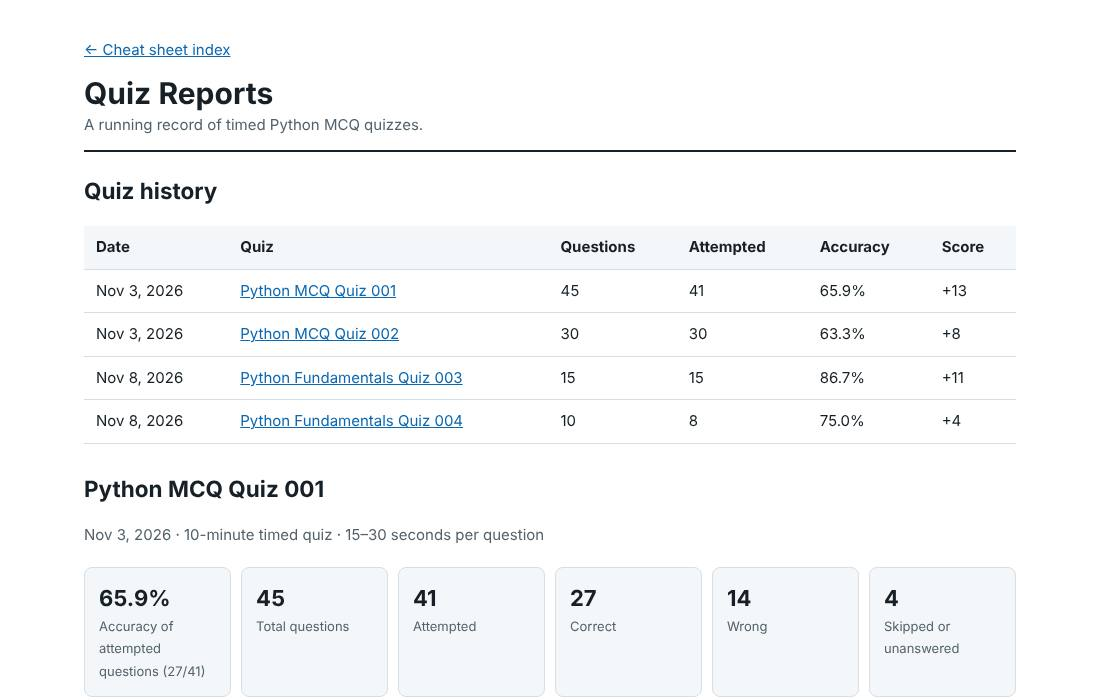
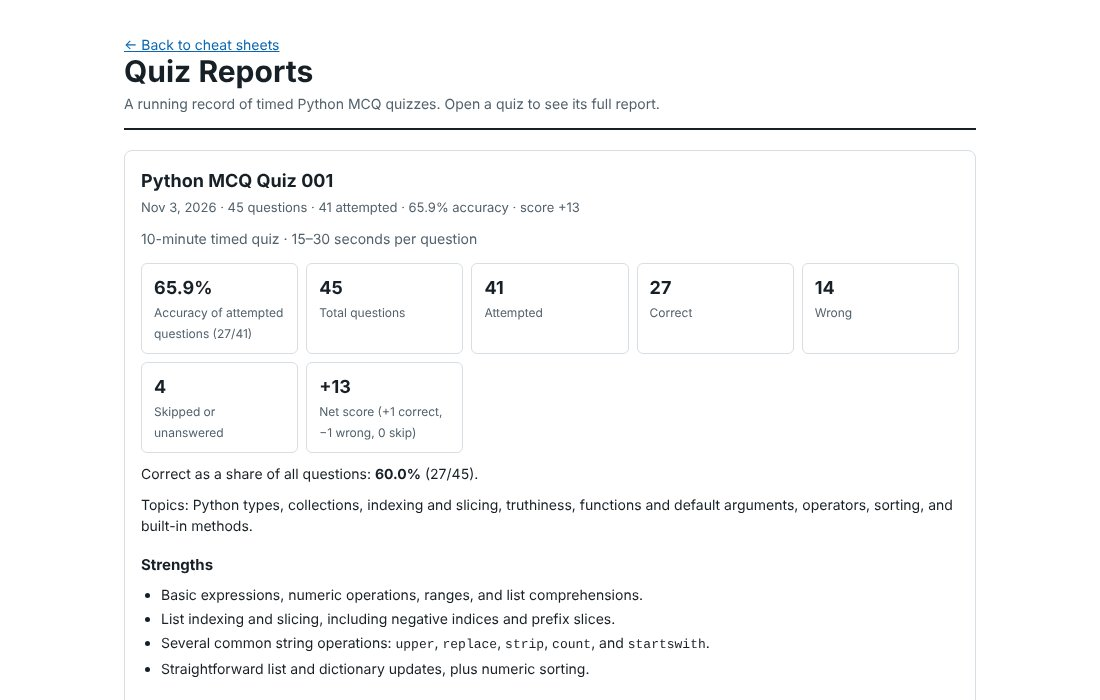
Nest each quiz report inside its quiz entry (#10)
Replace the quiz history table and the separate report articles with one
collapsible card per quiz. The card's summary shows the quiz name and its
history line; the full report sits inside. #quiz-NNN links open the card.

Claude-Session: https://claude.ai/code/session_01L7knbArDAyeYgqksp6899f

diff --git a/quizzes/quiz-reports.html b/quizzes/quiz-reports.html
@@ -1,11 +1,50 @@
 <!doctype html>
-<html lang="en"><head><meta charset="utf-8"><meta name="viewport" content="width=device-width, initial-scale=1"><title>Quiz Reports</title>
-<style>
-:root{--ink:#172026;--muted:#52616b;--line:#d7dee4;--blue:#0b67b2;--soft:#f4f7f9}*{box-sizing:border-box}body{margin:0;color:var(--ink);font:15px/1.5 Inter,ui-sans-serif,system-ui,-apple-system,BlinkMacSystemFont,"Segoe UI",sans-serif}main{max-width:980px;margin:0 auto;padding:24px}header{border-bottom:2px solid var(--ink);padding-bottom:14px;margin-bottom:22px}h1{margin:0 0 4px;font-size:30px;line-height:1.1}.muted{color:var(--muted)}a{color:var(--blue)}.summary{display:grid;grid-template-columns:repeat(auto-fit,minmax(135px,1fr));gap:10px;margin:20px 0}.metric{border:1px solid var(--line);border-radius:8px;padding:14px;background:var(--soft)}.metric strong{display:block;font-size:22px}.metric span{color:var(--muted);font-size:13px}table{width:100%;border-collapse:collapse;margin:18px 0 28px}th,td{padding:10px 12px;border-bottom:1px solid var(--line);text-align:left}th{background:var(--soft)}details{border:1px solid var(--line);border-radius:8px;padding:12px 14px;margin:12px 0}summary{cursor:pointer;font-weight:700}li{margin:6px 0}@media(max-width:600px){main{padding:16px}table{font-size:13px}th,td{padding:8px 6px}}
-</style></head><body><main>
-<header><p><a href="../index.html">← Cheat sheet index</a></p><h1>Quiz Reports</h1><div class="muted">A running record of timed Python MCQ quizzes.</div></header>
-<section aria-labelledby="history-heading"><h2 id="history-heading">Quiz history</h2><table><thead><tr><th>Date</th><th>Quiz</th><th>Questions</th><th>Attempted</th><th>Accuracy</th><th>Score</th></tr></thead><tbody><tr><td>Nov 3, 2026</td><td><a href="#quiz-001">Python MCQ Quiz 001</a></td><td>45</td><td>41</td><td>65.9%</td><td>+13</td></tr><tr><td>Nov 3, 2026</td><td><a href="#quiz-002">Python MCQ Quiz 002</a></td><td>30</td><td>30</td><td>63.3%</td><td>+8</td></tr><tr><td>Nov 8, 2026</td><td><a href="#quiz-003">Python Fundamentals Quiz 003</a></td><td>15</td><td>15</td><td>86.7%</td><td>+11</td></tr><tr><td>Nov 8, 2026</td><td><a href="#quiz-004">Python Fundamentals Quiz 004</a></td><td>10</td><td>8</td><td>75.0%</td><td>+4</td></tr></tbody></table></section>
-<article id="quiz-001" aria-labelledby="quiz-001-heading"><h2 id="quiz-001-heading">Python MCQ Quiz 001</h2><p class="muted">Nov 3, 2026 · 10-minute timed quiz · 15–30 seconds per question</p><div class="summary">
+<html lang="en">
+<head>
+  <meta charset="utf-8">
+  <meta name="viewport" content="width=device-width, initial-scale=1">
+  <title>Quiz Reports</title>
+  <style>
+    :root { --ink: #172026; --muted: #52616b; --line: #d7dee4; --soft: #f5f7f9; --blue: #0b67b2; }
+    * { box-sizing: border-box; }
+    body { margin: 0; color: var(--ink); background: #fff; font: 14px/1.5 Inter, ui-sans-serif, system-ui, -apple-system, BlinkMacSystemFont, "Segoe UI", sans-serif; }
+    main { max-width: 900px; margin: 0 auto; padding: 24px; }
+    header { margin-bottom: 20px; padding-bottom: 14px; border-bottom: 2px solid var(--ink); }
+    h1 { margin: 0 0 5px; font-size: 30px; line-height: 1.1; }
+    .subtitle, .muted, .meta { color: var(--muted); }
+    a { color: var(--blue); }
+    main > section { margin: 16px 0; padding: 16px; border: 1px solid var(--line); border-radius: 8px; scroll-margin-top: 12px; }
+    h2 { margin: 0 0 4px; font-size: 18px; }
+    h3 { margin: 18px 0 4px; font-size: 15px; }
+    p { margin: 10px 0 0; }
+    pre { overflow-x: auto; margin: 10px 0 0; padding: 14px; border-radius: 6px; background: var(--soft); font: 12.5px/1.55 "SFMono-Regular", Consolas, "Liberation Mono", Menlo, monospace; }
+    code { font: 13px/1.55 "SFMono-Regular", Consolas, "Liberation Mono", Menlo, monospace; }
+    ul, ol { margin: 8px 0 0; padding-left: 20px; }
+    li { margin: 3px 0; }
+    ol > li { margin: 12px 0; }
+    @media (max-width: 600px) { main { padding: 16px; } }
+    details.card > summary { cursor: pointer; list-style: none; }
+    details.card > summary::-webkit-details-marker { display: none; }
+    .meta { font-size: 13px; }
+    .summary { display: grid; grid-template-columns: repeat(auto-fit, minmax(130px, 1fr)); gap: 8px; margin: 14px 0 0; }
+    .metric { padding: 10px 12px; border: 1px solid var(--line); border-radius: 6px; }
+    .metric strong { display: block; font-size: 18px; }
+    .metric span { color: var(--muted); font-size: 12px; }
+    details.card details { margin-top: 8px; padding: 10px 12px; border: 1px solid var(--line); border-radius: 6px; }
+    details.card details > summary { cursor: pointer; font-weight: 600; }
+  </style>
+</head>
+<body>
+<main>
+<header>
+  <p><a href="../index.html">← Back to cheat sheets</a></p>
+  <h1>Quiz Reports</h1>
+  <div class="subtitle">A running record of timed Python MCQ quizzes. Open a quiz to see its full report.</div>
+</header>
+
+<section id="quiz-001">
+<details class="card"><summary><h2 id="quiz-001-heading">Python MCQ Quiz 001</h2><div class="meta">Nov 3, 2026 · 45 questions · 41 attempted · 65.9% accuracy · score +13</div></summary>
+<p class="muted">10-minute timed quiz · 15–30 seconds per question</p><div class="summary">
 <div class="metric"><strong>65.9%</strong><span>Accuracy of attempted questions (27/41)</span></div><div class="metric"><strong>45</strong><span>Total questions</span></div><div class="metric"><strong>41</strong><span>Attempted</span></div><div class="metric"><strong>27</strong><span>Correct</span></div><div class="metric"><strong>14</strong><span>Wrong</span></div><div class="metric"><strong>4</strong><span>Skipped or unanswered</span></div><div class="metric"><strong>+13</strong><span>Net score (+1 correct, −1 wrong, 0 skip)</span></div></div>
 <p>Correct as a share of all questions: <strong>60.0%</strong> (27/45).</p><p>Topics: Python types, collections, indexing and slicing, truthiness, functions and default arguments, operators, sorting, and built-in methods.</p>
 <section aria-labelledby="strengths"><h3 id="strengths">Strengths</h3><ul><li>Basic expressions, numeric operations, ranges, and list comprehensions.</li><li>List indexing and slicing, including negative indices and prefix slices.</li><li>Several common string operations: <code>upper</code>, <code>replace</code>, <code>strip</code>, <code>count</code>, and <code>startswith</code>.</li><li>Straightforward list and dictionary updates, plus numeric sorting.</li></ul></section>
@@ -41,8 +80,13 @@ print(f(0))</pre><p><strong>Options:</strong> A) <code>0</code>; B) <code>10</co
 <li><strong>Q34 — Exponentiation associativity:</strong><p><strong>Exact question:</strong> What does this print?</p><pre>print(2 ** 3 ** 2)</pre><p><strong>Options:</strong> A) <code>64</code>; B) <code>512</code>; C) <code>256</code>; D) <code>36</code>.</p><p><strong>Correct result:</strong> B) <code>512</code>. Exponentiation groups from the right: <code>2 ** (3 ** 2)</code>.</p></li>
 <li><strong>Q43 — <code>capitalize()</code>:</strong><p><strong>Exact question:</strong> What does this print?</p><pre>print("cat".capitalize())</pre><p><strong>Options:</strong> A) <code>Cat</code>; B) <code>CAT</code>; C) <code>cat</code>; D) It raises an error.</p><p><strong>Correct result:</strong> A) <code>Cat</code>. <code>capitalize()</code> uppercases the first character and lowercases the remaining characters.</p></li>
 </ol></details></section>
-<p class="muted">The quiz start timestamp was not captured, so exact total elapsed time could not be independently verified. Per-question time limits were used.</p></article>
-<article id="quiz-002" aria-labelledby="quiz-002-heading"><h2 id="quiz-002-heading">Python MCQ Quiz 002</h2><p class="muted">Nov 3, 2026 · 10-minute timed quiz · 15–30 seconds per question · recorded duration 8:11</p><div class="summary">
+<p class="muted">The quiz start timestamp was not captured, so exact total elapsed time could not be independently verified. Per-question time limits were used.</p>
+</details>
+</section>
+
+<section id="quiz-002">
+<details class="card"><summary><h2 id="quiz-002-heading">Python MCQ Quiz 002</h2><div class="meta">Nov 3, 2026 · 30 questions · 30 attempted · 63.3% accuracy · score +8</div></summary>
+<p class="muted">10-minute timed quiz · 15–30 seconds per question · recorded duration 8:11</p><div class="summary">
 <div class="metric"><strong>63.3%</strong><span>Accuracy of attempted questions (19/30)</span></div><div class="metric"><strong>30</strong><span>Total questions</span></div><div class="metric"><strong>30</strong><span>Attempted</span></div><div class="metric"><strong>19</strong><span>Correct</span></div><div class="metric"><strong>11</strong><span>Wrong</span></div><div class="metric"><strong>0</strong><span>Skipped</span></div><div class="metric"><strong>+8</strong><span>Net score (+1 correct, −1 wrong, 0 skip)</span></div></div>
 <p>Correct as a share of all questions: <strong>63.3%</strong> (19/30).</p><p>Topics: Python types, lists and dictionaries, indexing and slicing, truthiness, functions and default arguments, operators, sorting, and built-in methods.</p>
 <section aria-labelledby="strengths-002"><h3 id="strengths-002">Strengths</h3><ul><li>Direct list aliasing, slicing with positive and negative bounds, and basic list operations.</li><li>Dictionary lookup with a default, updates, and understanding that values can repeat.</li><li>One-item tuple syntax and simple function defaults, including when a default expression is evaluated.</li><li>Several string operations, including <code>find</code> and <code>join</code>.</li><li>Equality versus identity for separate lists, and chained comparisons.</li></ul></section>
@@ -70,9 +114,12 @@ print(a)</pre><p><strong>Options:</strong> A) <code>[[1], [2]]</code>; B) <code>
 <li><strong>Q27 — Dictionary iteration order and values</strong><p><strong>Exact question:</strong></p><pre>d = {"b": 2, "a": 1}
 print(list(d))</pre><p><strong>Options:</strong> A) <code>['a', 'b']</code>; B) <code>['b', 'a']</code>; C) <code>[2, 1]</code>; D) <code>[('b', 2), ('a', 1)]</code>.</p><p><strong>Your answer:</strong> D. <strong>Correct result:</strong> B) <code>['b', 'a']</code>.</p><p><strong>Learned:</strong> Iterating a dictionary yields its keys in insertion order. Use <code>d.values()</code> for values or <code>d.items()</code> for key-value pairs.</p></li>
 </ol></details></section>
-</article>
+</details>
+</section>
 
-<article id="quiz-003" aria-labelledby="quiz-003-heading"><h2 id="quiz-003-heading">Python Fundamentals Quiz 003</h2><p class="muted">Nov 8, 2026 · Duration: unknown · Per-question time limit: unknown</p><div class="summary">
+<section id="quiz-003">
+<details class="card"><summary><h2 id="quiz-003-heading">Python Fundamentals Quiz 003</h2><div class="meta">Nov 8, 2026 · 15 questions · 15 attempted · 86.7% accuracy · score +11</div></summary>
+<p class="muted">Duration: unknown · Per-question time limit: unknown</p><div class="summary">
 <div class="metric"><strong>86.7%</strong><span>Accuracy of attempted questions (13/15)</span></div><div class="metric"><strong>15</strong><span>Total questions</span></div><div class="metric"><strong>15</strong><span>Attempted</span></div><div class="metric"><strong>13</strong><span>Correct</span></div><div class="metric"><strong>2</strong><span>Wrong</span></div><div class="metric"><strong>0</strong><span>Skipped or unanswered</span></div><div class="metric"><strong>+11</strong><span>Net score (+1 correct, −1 wrong, 0 skip)</span></div></div>
 <p>Correct as a share of all questions: <strong>86.7%</strong> (13/15).</p><p>Topics: mutability and aliasing, function defaults, tuples, dictionaries, slicing, string search, booleans, comprehensions, shallow copying, generators, exceptions, sorting, truthiness, and enumerate. Questions reviewed prior Python fundamentals learning and extended into data preparation and ML workflows.</p>
 <section aria-labelledby="strengths-003"><h3 id="strengths-003">Strengths</h3><ul><li>Correctly identified list in-place mutation with <code>+=</code> and the shared inner objects in a shallow copy.</li><li>Applied function default behavior, tuple syntax, dictionary lookup, slicing, and missing-substring behavior accurately.</li><li>Handled Python booleans as integers, generators, exception handling, sorting with a key, truthiness, and <code>enumerate</code> in practical snippets.</li></ul></section>
@@ -82,10 +129,12 @@ print(list(d))</pre><p><strong>Options:</strong> A) <code>['a', 'b']</code>; B) 
 print(len(d), d["lr"])</pre><p><strong>Answer choices:</strong></p><ul><li>A. <code>3 0.1</code></li><li>B. <code>3 0.01</code></li><li>C. <code>2 0.01</code></li><li>D. It raises a <code>KeyError</code></li></ul><p><strong>Your answer:</strong> D. <strong>Correct result:</strong> C, <code>2 0.01</code>.</p><p><strong>Learned:</strong> A dictionary has at most one entry for a given key. A later value for the same key replaces its earlier value; the key contributes only one item to <code>len(d)</code>.</p></li>
 <li><strong>Q9 — Comprehension filter order:</strong><p><strong>Exact question:</strong> What is the value of <code>squares</code>?</p><pre>squares = [x * x for x in range(5) if x % 2 == 0]</pre><p><strong>Answer choices:</strong></p><ul><li>A. <code>[0, 1, 4, 9, 16]</code></li><li>B. <code>[0, 4, 16]</code></li><li>C. <code>[0, 2, 4]</code></li><li>D. <code>[4, 16]</code></li></ul><p><strong>Your answer:</strong> A. <strong>Correct result:</strong> B, <code>[0, 4, 16]</code>.</p><p><strong>Learned:</strong> The <code>if</code> clause filters the iteration values before the expression is evaluated. Here only 0, 2, and 4 are retained, then squared.</p></li>
 </ol></details></section>
-</article>
+</details>
+</section>
 
-
-<article id="quiz-004" aria-labelledby="quiz-004-heading"><h2 id="quiz-004-heading">Python Fundamentals Quiz 004</h2><p class="muted">Nov 8, 2026 · Duration: unknown · Per-question time limits: easy 20 seconds, medium 35 seconds, hard 60 seconds</p><div class="summary">
+<section id="quiz-004">
+<details class="card"><summary><h2 id="quiz-004-heading">Python Fundamentals Quiz 004</h2><div class="meta">Nov 8, 2026 · 10 questions · 8 attempted · 75.0% accuracy · score +4</div></summary>
+<p class="muted">Duration: unknown · Per-question time limits: easy 20 seconds, medium 35 seconds, hard 60 seconds</p><div class="summary">
 <div class="metric"><strong>75.0%</strong><span>Accuracy of attempted questions (6/8)</span></div><div class="metric"><strong>10</strong><span>Total questions</span></div><div class="metric"><strong>8</strong><span>Attempted</span></div><div class="metric"><strong>6</strong><span>Correct</span></div><div class="metric"><strong>2</strong><span>Wrong</span></div><div class="metric"><strong>2</strong><span>Skipped or unanswered</span></div><div class="metric"><strong>+4</strong><span>Net score (+1 correct, −1 wrong, 0 skip)</span></div></div>
 <p>Correct as a share of all questions: <strong>60.0%</strong> (6/10). Difficulty mix: 5 medium, 2 easy, and 3 hard. The 2 unanswered items were not counted as correct or wrong; one was answered after the timer had expired and one was skipped.</p>
 <p>Topics covered included function defaults, in-place sorting, closures, <code>zip</code>, <code>enumerate</code>, <code>try/except/else</code>, nonlocal state, iterable unpacking, generator return values, and stable sorting. Duration is unknown; per-question time limits were 20, 35, or 60 seconds based on difficulty.</p>
@@ -102,6 +151,31 @@ else:
     value += 1
 print(value)</pre><p><strong>Answer choices:</strong></p><ul><li>A. <code>2</code></li><li>B. <code>3</code></li><li>C. <code>-1</code></li><li>D. It raises a <code>TypeError</code></li></ul><p><strong>Your answer:</strong> A. <strong>Correct result:</strong> B, <code>3</code>.</p><p><strong>Learned:</strong> The <code>else</code> block runs when the <code>try</code> block completes without an exception. Here <code>12 // 5</code> is <code>2</code>, then the <code>else</code> block increments it to <code>3</code>.</p></li>
 </ol></details></section>
-</article>
+</details>
+</section>
 
-</main></body></html>
+</main>
+<script>
+  (function () {
+    function openFromHash() {
+      var id = decodeURIComponent(location.hash.slice(1));
+      var target = id && document.getElementById(id);
+      if (!target) return;
+      var section = target.closest("main > section");
+      var card = section && section.querySelector("details.card");
+      if (card && !card.open) card.open = true;
+      target.scrollIntoView();
+    }
+    window.addEventListener("hashchange", openFromHash);
+    openFromHash();
+    var opened = [];
+    window.addEventListener("beforeprint", function () {
+      document.querySelectorAll("details:not([open])").forEach(function (d) { d.open = true; opened.push(d); });
+    });
+    window.addEventListener("afterprint", function () {
+      opened.forEach(function (d) { d.open = false; }); opened = [];
+    });
+  })();
+</script>
+</body>
+</html>

diff --git a/AGENTS.md b/AGENTS.md
@@ -3,13 +3,13 @@
 ## Quiz report maintenance
 
 - Keep the quiz reports section in [index.html](index.html) linked to [quizzes/quiz-reports.html](quizzes/quiz-reports.html).
-- After each quiz, add a new row to the Quiz history table in [quizzes/quiz-reports.html](quizzes/quiz-reports.html) and a matching detailed article below it. Preserve all earlier quiz rows and reports.
+- After each quiz, add a new collapsible card to [quizzes/quiz-reports.html](quizzes/quiz-reports.html): a `<section id="quiz-NNN">` holding a `<details class="card">`. Its `<summary>` holds the quiz name as `<h2>` and a one-line `.meta` with date, questions, attempted, accuracy and score; the full report goes inside the card. Preserve all earlier quiz cards.
 - Every quiz report must include these sections: **Strengths**, **Weaknesses**, and **Learnings from weaknesses**.
 - Make the question-by-question list under **Learnings from weaknesses** collapsible with a clear summary label. For every wrong answer, include the exact question wording, code snippet, and all answer choices as shown in the quiz, plus the learner's answer, correct result, and concept learned.
 - Base strengths and weaknesses on the quiz responses. Do not infer mastery from skipped or unanswered questions.
 - Record the quiz date, quiz/topic name, total questions, attempted questions, correct, wrong, skipped or unanswered, accuracy among attempted questions, accuracy across all questions, and net score using +1 for correct, 0 for skip, and −1 for wrong.
 - Include the quiz duration and per-question time limits when known. If exact elapsed time or a metric is unknown, label it as unknown instead of estimating.
-- Check that the history row links to the matching report article, the index still links to the report page, and all report sections are present.
+- Check that the `#quiz-NNN` link opens the matching card, the index still links to the report page, and all report sections are present.
 
 ## Python fundamentals quiz design and delivery
 
